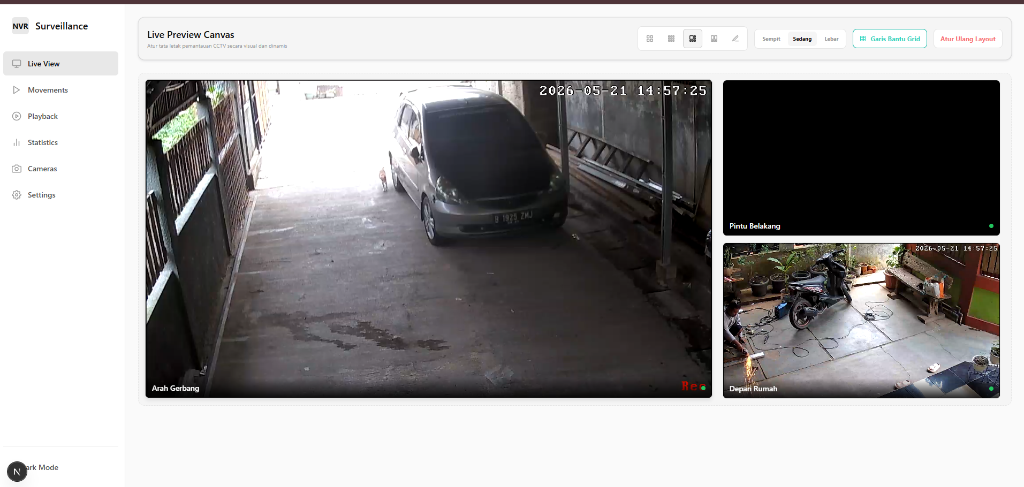
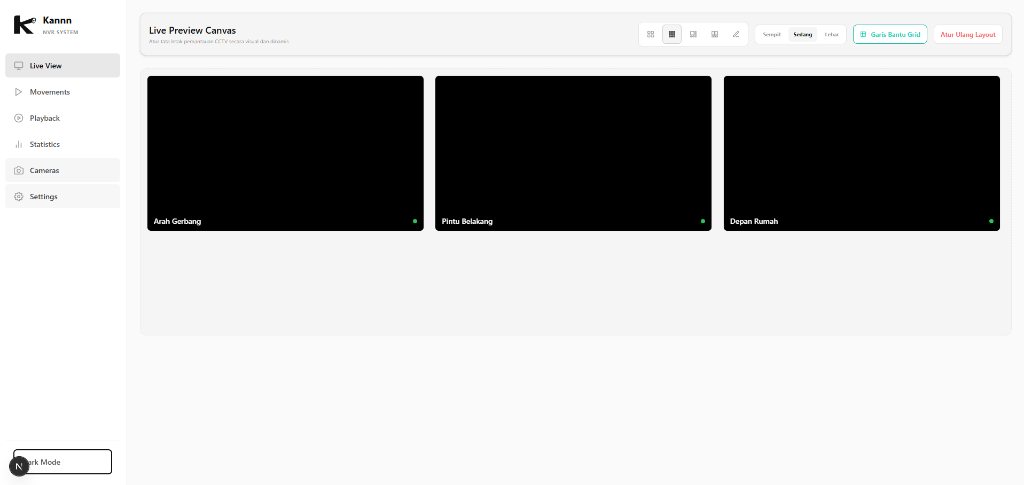
docs: update README with new high-resolution screenshots for all workspace views

diff --git a/README.md b/README.md
@@ -17,25 +17,37 @@ Web application to monitor your IP Security Camera network, continuously record 
   :heavy_check_mark:  **AI Object Detection Tagging**: Supercharge motion triggers with YOLO11 object verification to eliminate false alerts from clouds or wind.
 
 <p align="center">
-  <img width="800" src="./assets/wenui.png" alt="NVR Surveillance Live Preview Canvas">
+  <img width="800" src="./assets/wenui.png" alt="Kannn NVR Live Preview Canvas">
 </p>
 
 > **_NOTE:_** This repo was developed with Reolink POE cameras, that provided a RTMP endpoint, and a API for motion detection. But can be developed/extended for other IP cameras.
 
-### Object Detection
+### 🎥 Unified 24-Hour Playback Timeline
+
+Review recorded footage seamlessly using the professional 24-hour continuous timeline ruler. Visualize recorded segments, jump directly to active motion triggers, and playback files in a unified, modern interface.
+
+<p align="center">
+  <img width="800" src="./assets/playback.png" alt="Kannn NVR Playback Timeline">
+</p>
+
+### 🔍 Object Detection
 
 In addition, if your cameras motion sensor triggers a detection, the app will take a still of the detection, and run a Object Detection process, to tag the still with the objects in the picture.  You can then use these tags to filter and review your motion events.  This is very useful to avoid false positives, like the sun going behind a cloud, or a rain shower.
 
 <p align="center">
-  <img width="450"  src="./assets/objectdetection.png">
+  <img width="450"  src="./assets/objectdetection.png" alt="Kannn NVR Object Detection Tagging">
 </p>
 
-### Settings
+### 🛠️ Settings & Camera Management
 
-Using the settings menu, you first select the disk you will be using to stream real-time video from the cameras, and if you want to use the auto-deletion featre to prevent the disk from filling up, then if you want to use the object detection feature. Then you can add your cameras
+Add, configure, and monitor your connected IP security cameras. View real-time streaming and motion detection status indicator lights instantly, and configure disk storage capacity limits alongside YOLO object detection parameters.
 
 <p align="center">
-  <img width="250"  src="./assets/settings1a.png"> <img width="250"   src="./assets/settings2a.png"> 
+  <img width="800" src="./assets/cameras.png" alt="Kannn NVR Camera Management">
+</p>
+
+<p align="center">
+  <img width="800" src="./assets/settings.png" alt="Kannn NVR Settings">
 </p>
 
 <br clear="both"/>